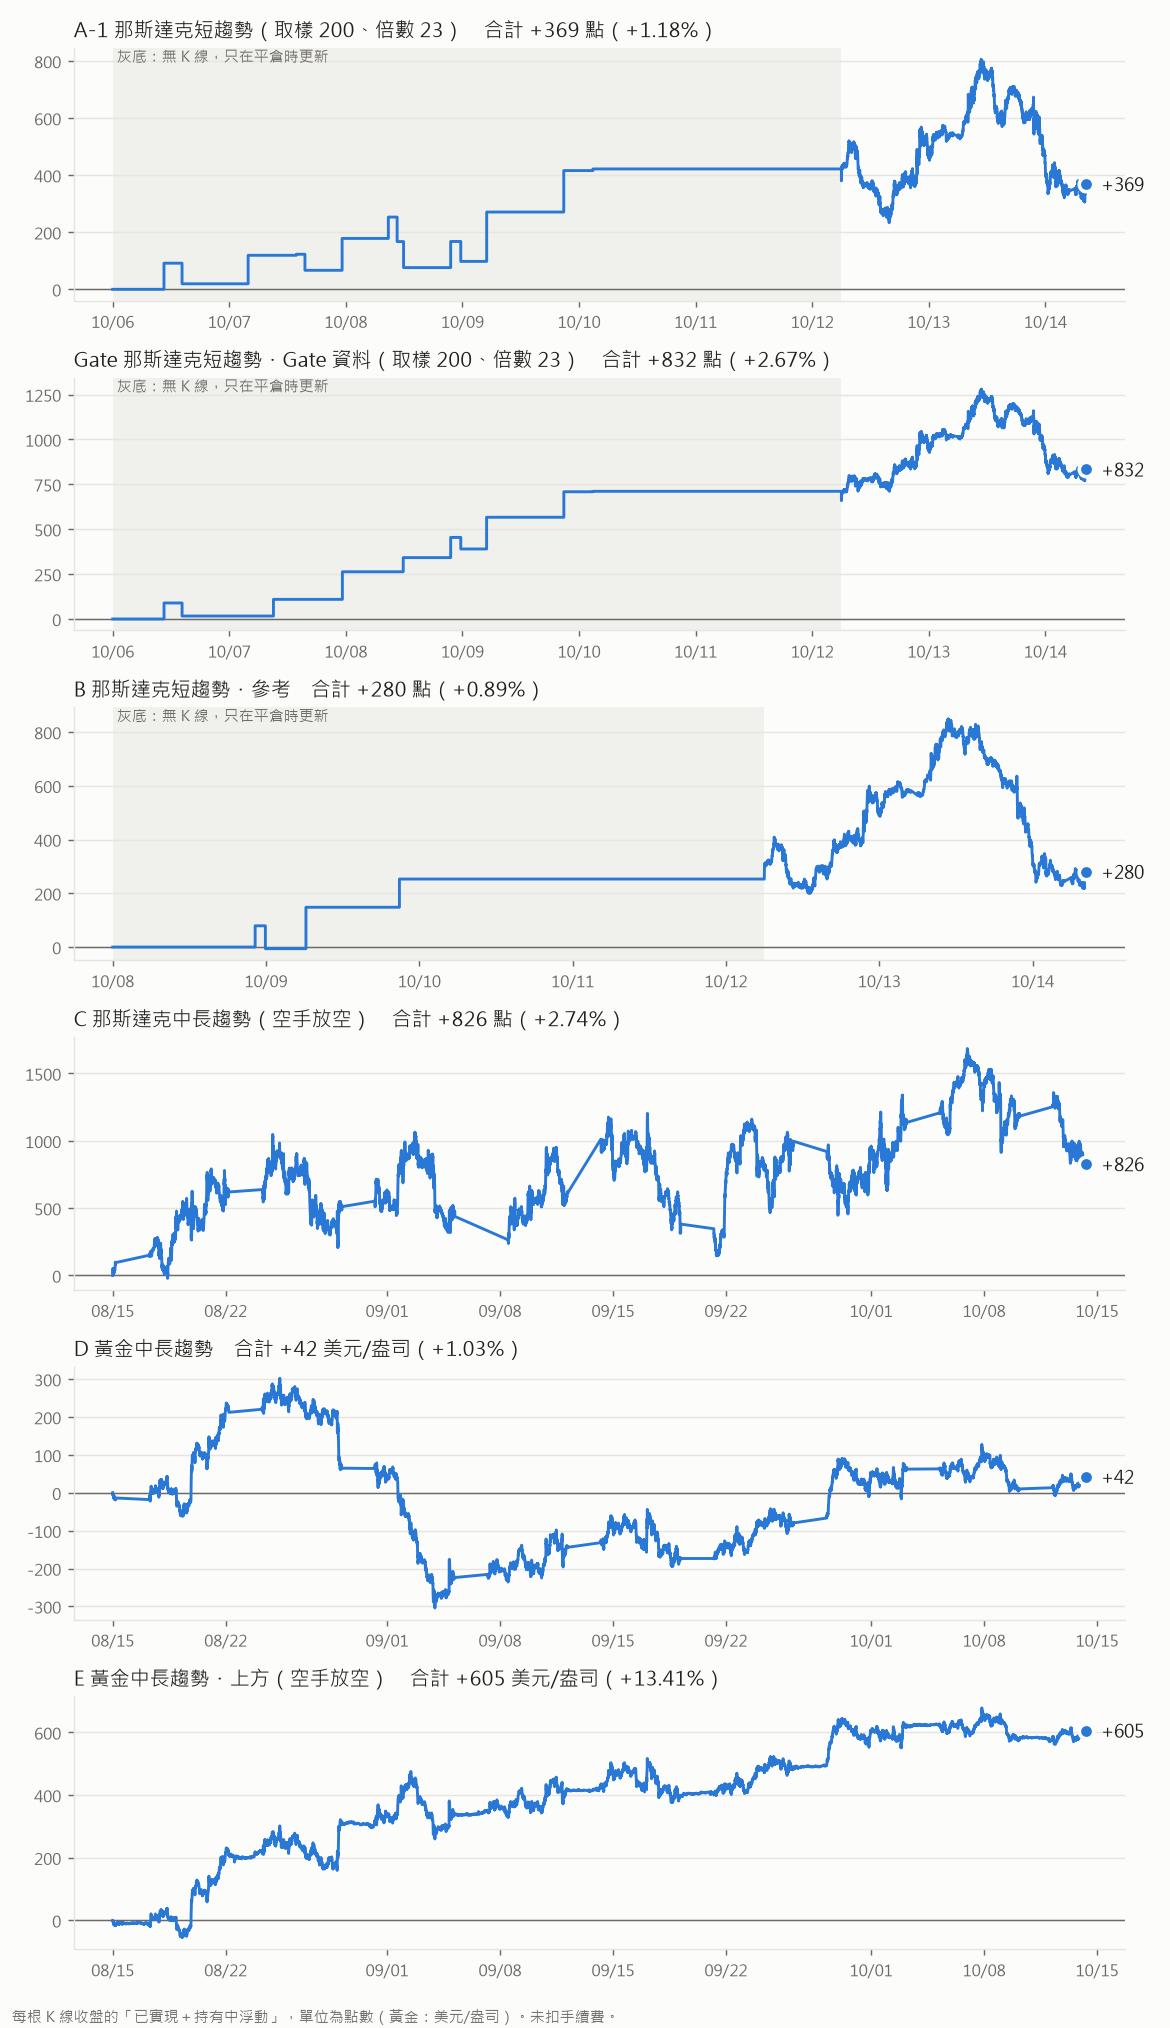
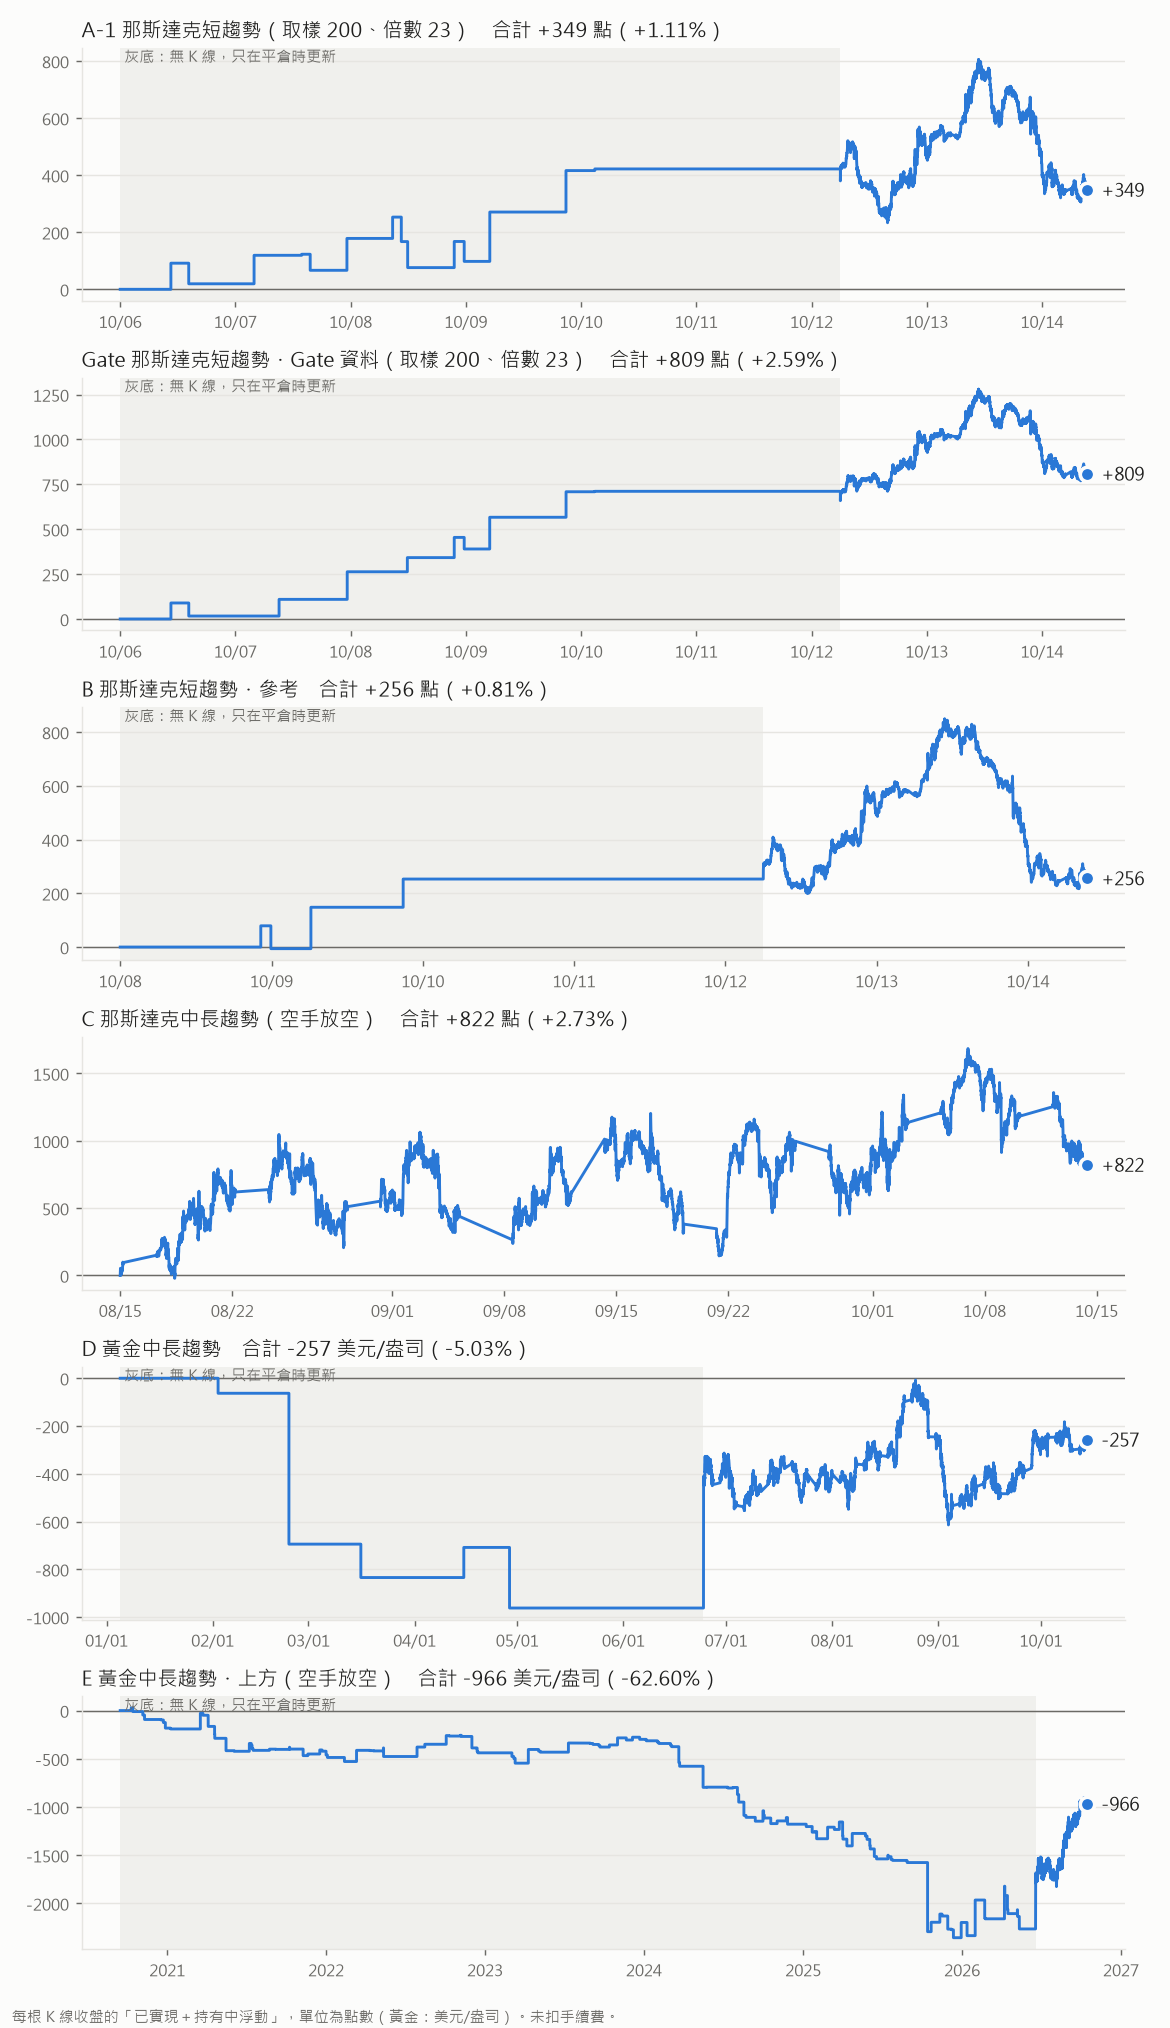
實際紀錄：E、F（紀錄檔 D、E）回溯拉到資料源最大
D（XAUUSDT 2025/12/11 上市）起算改 2026/01/05、E（PAXGUSDT 1 分 K 從 2020/08/28）改 2020/09/15，
各扣 350 小時暖機；刪舊列由程式重算，8/15 之後進出與原紀錄相同。C 維持 8/15（單一月份合約真 5 分 K 只有 60 天）。
曲線圖跨年時橫軸改標年份。

diff --git a/實際紀錄/更新紀錄.py b/實際紀錄/更新紀錄.py
@@ -40,7 +40,9 @@ def ms(y, m, d, h=0):  # 台北時間 → 毫秒
 # 紀錄檔裡原本的「A」欄位就是 A-1（舊紀錄只追加不改，欄位名稱不動）。
 # E（2026-10-12 加入）＝黃金上方策略，起算日比照 C、D。
 # G（2026-10-12 加入，取代 A-2）＝Gate 版，起算日與 A-1 同為 10/6，方便並排比較。A2 舊列保留但不再更新、不再印績效。
-START = {"A": ms(2026, 10, 6), "A2": ms(2026, 10, 6), "G": ms(2026, 10, 6), "B": ms(2026, 10, 8), "C": ms(2026, 8, 15), "D": ms(2026, 8, 15), "E": ms(2026, 8, 15)}
+START = {"A": ms(2026, 10, 6), "A2": ms(2026, 10, 6), "G": ms(2026, 10, 6), "B": ms(2026, 10, 8), "C": ms(2026, 8, 15), "D": ms(2026, 1, 5), "E": ms(2020, 9, 15)}
+# 2026-10-14 使用者要求 D、E 回溯拉到最大：XAUUSDT 2025/12/11 上市、PAXGUSDT 1 分 K 從 2020/08/28，各扣 350 小時暖機。
+# C 維持 8/15：單一月份合約的真 5 分 K 只有 60 天，更早只剩小時 K（9 月約已下市）。
 ORDER = ["A", "G", "B", "C", "D", "E"]
 LABEL = {"A": "A-1", "A2": "A-2", "G": "Gate", "B": "B", "C": "C", "D": "D", "E": "E"}
 NAME = {"A": "那斯達克短趨勢（取樣 200、倍數 23）", "A2": "那斯達克短趨勢（取樣 400、倍數 16）", "G": "那斯達克短趨勢・Gate 資料（取樣 200、倍數 23）", "B": "那斯達克短趨勢・參考", "C": "那斯達克中長趨勢（空手放空）", "D": "黃金中長趨勢", "E": "黃金中長趨勢・上方（空手放空）"}
@@ -485,7 +487,9 @@ def draw_curves(res, path):
         for s in ("left", "bottom"): ax.spines[s].set_color(GRID)
         ax.tick_params(colors=MUTED, labelsize=9)
         if (eq[-1][0] - eq[0][0]) < 15 * 86400000: ax.xaxis.set_major_locator(mdates.DayLocator())
-        ax.xaxis.set_major_formatter(mdates.DateFormatter("%m/%d"))
+        if (eq[-1][0] - eq[0][0]) > 400 * 86400000:  # 跨年（E 格回溯到 2020）只標年份，否則每格都是 01/01
+            ax.xaxis.set_major_locator(mdates.YearLocator()); ax.xaxis.set_major_formatter(mdates.DateFormatter("%Y"))
+        else: ax.xaxis.set_major_formatter(mdates.DateFormatter("%m/%d"))
         ax.margins(x=0.04)
     fig.text(0.01, 0.003, "每根 K 線收盤的「已實現＋持有中浮動」，單位為點數（黃金：美元/盎司）。未扣手續費。", color=MUTED, fontsize=8.5)
     fig.tight_layout(rect=(0, 0.015, 1, 1)); fig.savefig(path, dpi=130, facecolor=BG); plt.close(fig)
